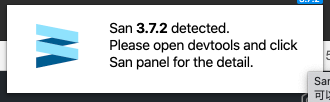
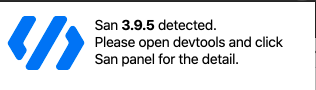
:pencil: user_guid & clean

diff --git a/packages/extensions/src/background.ts b/packages/extensions/src/background.ts
@@ -99,7 +99,6 @@ chrome.runtime.onMessage.addListener((req, sender, sendResponse) => {
     }
     let data = {
         version: req.version,
-        visibility: req.visibility,
         tabId: sender.tab.id || -1
     };
     updateBrowserAction(data);
@@ -107,35 +106,27 @@ chrome.runtime.onMessage.addListener((req, sender, sendResponse) => {
 /**
  * 找到需要设置菜单栏图标的tabid
  * @param {*} ver
- * @param {*} visibility
  * @param {*} from
  */
 interface BackendReadyData {
     version: string;
-    visibility: boolean;
     tabId: number;
 }
 function updateBrowserAction(data: BackendReadyData) {
-    let {version, visibility, tabId} = data;
+    let {version, tabId} = data;
     if (typeof version === 'undefined') {
         return;
     }
     if (tabId) {
-        updateBadgeTextAndIcon(+tabId, version, visibility);
+        updateBadgeTextAndIcon(+tabId, version);
     }
 }
 /**
  * 设置菜单栏图标文字以及背景图片
  * @param {*} tabId
- * @param {*} ver
- * @param {*} visibility
+ * @param {*} version
  */
-function updateBadgeTextAndIcon(tabId: number, version: string, visibility: boolean) {
-    // 设置chrome上的菜单栏图标san版本号
-    chrome.browserAction.setBadgeText({
-        tabId,
-        text: visibility && !+localStorage.do_not_show_version ? version : ''
-    });
+function updateBadgeTextAndIcon(tabId: number, version: string) {
     // 设置chrome上的菜单栏图标
     chrome.browserAction.setIcon({
         tabId,

diff --git a/packages/extensions/src/contentScript/relay.ts b/packages/extensions/src/contentScript/relay.ts
@@ -1,3 +1,4 @@
+/* global chrome */
 /**
  * @file 中继站，页面 backend 与 contentScript 之间的中继
  */
@@ -20,8 +21,7 @@ export function relay() {
         } else if (evt.source === window && evt.data && evt.data.source === 'san-detector') {
             chrome.runtime.sendMessage({
                 event: 'HandShake.backendReady',
-                version: evt.data.payload,
-                visibility: true
+                version: evt.data.payload
             });
         }
     }

diff --git a/packages/san-devtools/src/home.less b/packages/san-devtools/src/home.less
@@ -26,6 +26,14 @@
     }
     .wrap{
         margin: 0 50px;
+        .detail > a, .santd-btn {
+            color: rgba(25, 104, 250, .6);
+        }
+        .santd-list-item-action {
+            a {
+                color: rgba(25, 104, 250, 1);
+            }
+        }
     }
     .footer{
         float: right;

diff --git a/packages/san-devtools/src/utils/getFavicon.ts b/packages/san-devtools/src/utils/getFavicon.ts
@@ -34,5 +34,5 @@ export default function getFavicon() {
     if (url) {
         return url;
     }
-    return 'https://baidu.github.io/san/img/icons/icon-144x144.png';
+    return '';
 }

diff --git a/docs/user_guide.md b/docs/user_guide.md
@@ -88,8 +88,8 @@ $ sand
 
 #### Popup 窗口
 <p>
-    <a href="https://raw.githubusercontent.com/baidu/san-devtools/master/docs/images/popup.png">
-        <img src="https://raw.githubusercontent.com/baidu/san-devtools/master/docs/images/popup.png" alt="popup" height="100">
+    <a href="https://raw.githubusercontent.com/baidu/san-devtools/master/docs/images/san-detected.png">
+        <img src="https://raw.githubusercontent.com/baidu/san-devtools/master/docs/images/san-detected.png" alt="popup" height="100">
     </a>
 </p>
 
